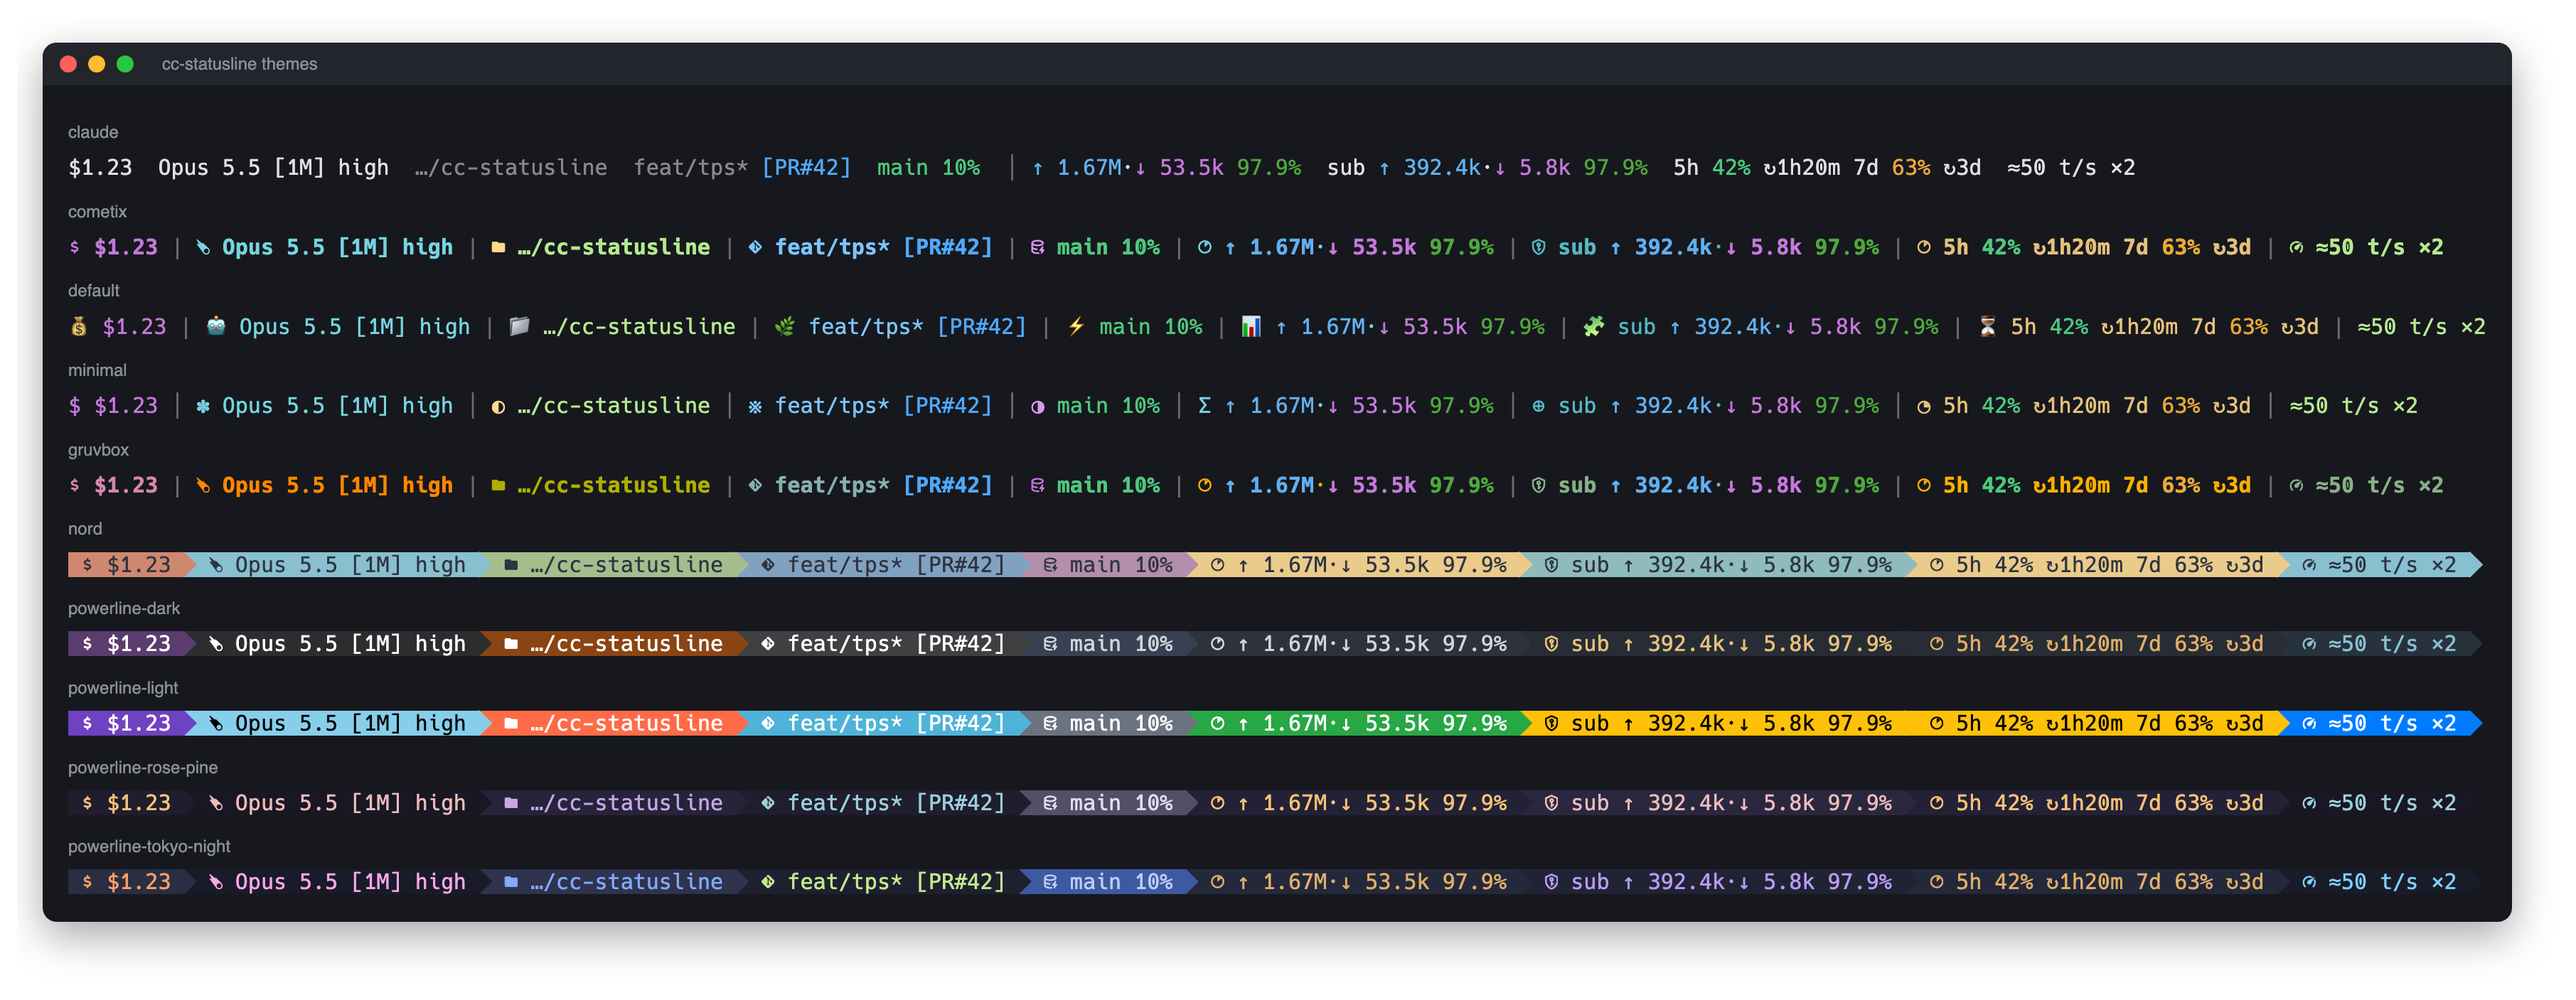
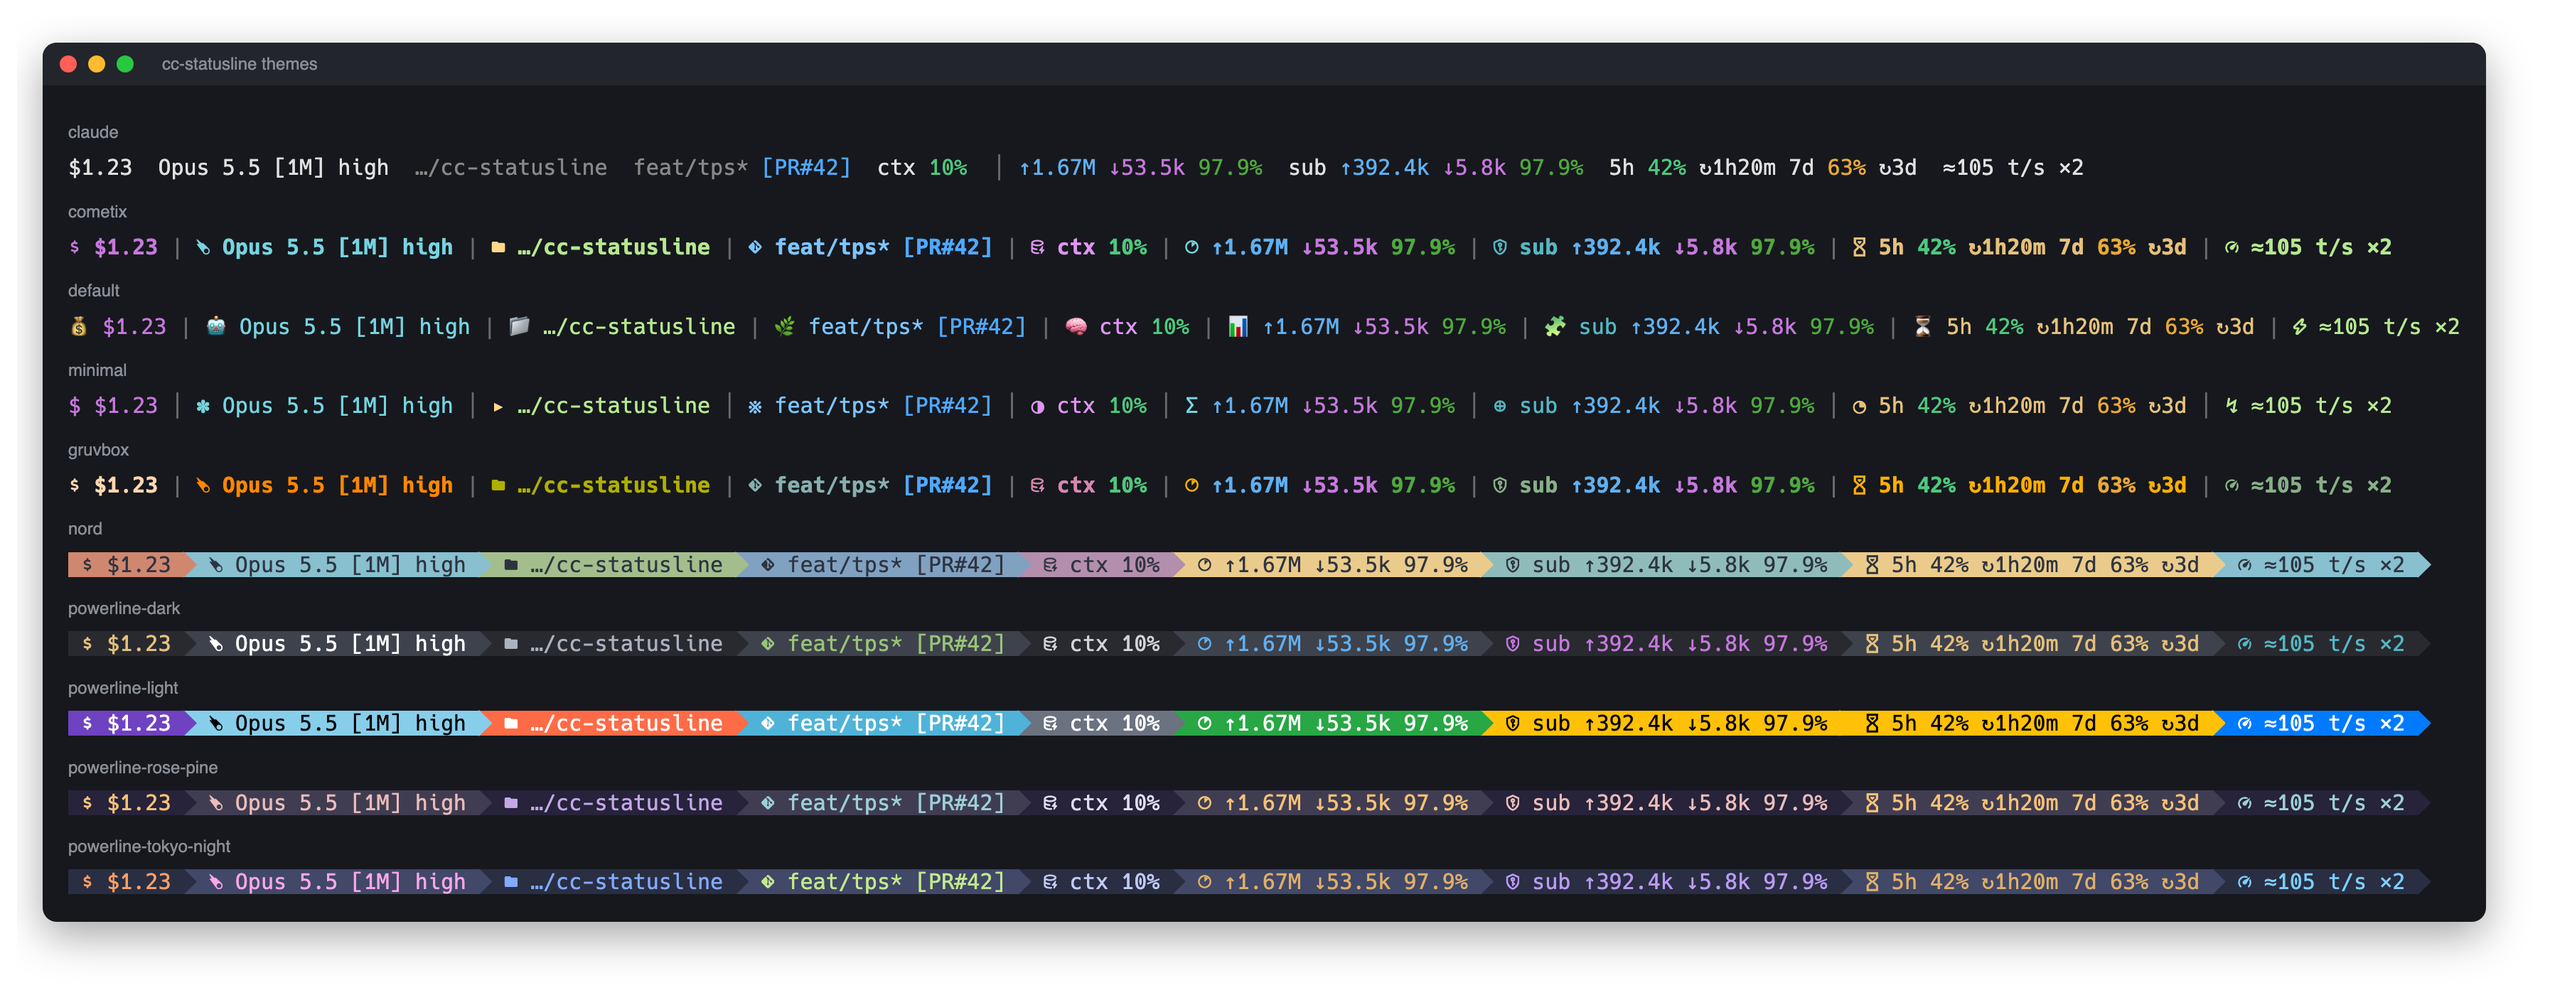
feat: plain ctx label with optional meter and clearer theme palettes
- context reads 'ctx 62% · 620k/1M' (no 'main', which read as a branch)
  and gains a bar option shared with quota's meter
- distinct quota and TPS icons; minimal directory no longer a circle
- gruvbox context stays in the 256 palette
- dark powerline themes alternate two background shades so arrows show
- tighter compact usage triple; regenerate README screenshots

diff --git a/src/themes.rs b/src/themes.rs
@@ -32,10 +32,10 @@ fn icons(id: SegmentId, minimal: bool) -> (&'static str, &'static str) {
         (OutputStyle, false) => ("✎", "\u{f040}"),
         (OutputStyle, true) => ("✎", "\u{f040}"),
         (Directory, false) => ("📁", "\u{f024b}"),
-        (Directory, true) => ("◐", "\u{f024b}"),
+        (Directory, true) => ("▸", "\u{f024b}"),
         (Git, false) => ("🌿", "\u{f02a2}"),
         (Git, true) => ("※", "\u{f02a2}"),
-        (Context, false) => ("⚡", "\u{f49b}"),
+        (Context, false) => ("🧠", "\u{f49b}"),
         (Context, true) => ("◑", "\u{f49b}"),
         (Usage, false) => ("📊", "\u{f0a9e}"),
         (Usage, true) => ("Σ", "\u{f0a9e}"),
@@ -43,12 +43,12 @@ fn icons(id: SegmentId, minimal: bool) -> (&'static str, &'static str) {
         (Subagent, true) => ("⊕", "\u{f0bc5}"),
         (Session, false) => ("⏱", "\u{f19bb}"),
         (Session, true) => ("◷", "\u{f19bb}"),
-        (Quota, false) => ("⏳", "\u{f0a9e}"),
-        (Quota, true) => ("◔", "\u{f0a9e}"),
+        (Quota, false) => ("⏳", "\u{f051f}"),
+        (Quota, true) => ("◔", "\u{f051f}"),
         (Changes, false) => ("±", "\u{f440}"),
         (Changes, true) => ("±", "\u{f440}"),
-        (Tps, false) => ("", "\u{f04c5}"),
-        (Tps, true) => ("", "\u{f04c5}"),
+        (Tps, false) => ("⚡", "\u{f04c5}"),
+        (Tps, true) => ("↯", "\u{f04c5}"),
     }
 }
 
@@ -66,6 +66,7 @@ fn default_options(id: SegmentId) -> BTreeMap<String, toml::Value> {
         }
         SegmentId::Context => {
             put("show_tokens", true.into());
+            put("bar", false.into());
             put("colorful", true.into());
         }
         SegmentId::Usage => {
@@ -200,7 +201,8 @@ fn fg_theme(
 
 type Triple = (u8, u8, u8);
 
-/// powerline preset: one (fg, bg) pair per segment.
+/// powerline preset: one (fg, bg) pair per segment. Backgrounds alternate
+/// between two shades along the default enabled order so each arrow shows.
 fn pl_theme(name: &str, colors: [(Triple, Triple); 13]) -> Config {
     let specs = SegmentId::ALL
         .into_iter()
@@ -322,12 +324,12 @@ pub fn builtin(name: &str) -> Option<Config> {
                 false,
                 [
                     pair(167),
-                    pair(175),
+                    pair(223),
                     pair(208),
                     pair(214),
                     pair(142),
                     pair(109),
-                    (c16(5), c16(5)),
+                    pair(175),
                     pair(214),
                     pair(108),
                     pair(142),
@@ -369,19 +371,19 @@ pub fn builtin(name: &str) -> Option<Config> {
         "powerline-dark" => pl_theme(
             name,
             [
-                ((255, 255, 255), (120, 40, 40)),
-                ((255, 255, 255), (90, 60, 110)),
-                ((255, 255, 255), (45, 45, 45)),
-                ((255, 255, 255), (30, 80, 120)),
-                ((255, 255, 255), (139, 69, 19)),
-                ((255, 255, 255), (64, 64, 64)),
-                ((209, 213, 219), (55, 65, 81)),
-                ((209, 213, 219), (45, 50, 59)),
-                ((229, 192, 123), (40, 44, 52)),
-                ((163, 190, 140), (45, 50, 59)),
-                ((224, 175, 104), (40, 44, 52)),
-                ((136, 192, 208), (40, 50, 60)),
-                ((136, 192, 208), (40, 50, 60)),
+                ((255, 255, 255), (150, 50, 60)),
+                ((229, 192, 123), (40, 42, 48)),
+                ((255, 255, 255), (62, 66, 76)),
+                ((198, 160, 246), (40, 42, 48)),
+                ((171, 178, 191), (40, 42, 48)),
+                ((152, 195, 121), (62, 66, 76)),
+                ((209, 213, 219), (40, 42, 48)),
+                ((97, 175, 239), (62, 66, 76)),
+                ((198, 120, 221), (40, 42, 48)),
+                ((171, 178, 191), (62, 66, 76)),
+                ((229, 192, 123), (62, 66, 76)),
+                ((152, 195, 121), (40, 42, 48)),
+                ((86, 182, 194), (40, 42, 48)),
             ],
         ),
         "powerline-light" => pl_theme(
@@ -405,37 +407,37 @@ pub fn builtin(name: &str) -> Option<Config> {
         "powerline-rose-pine" => pl_theme(
             name,
             [
-                ((235, 111, 146), (35, 33, 54)),
-                ((246, 193, 119), (31, 29, 46)),
-                ((235, 188, 186), (25, 23, 36)),
-                ((49, 116, 143), (38, 35, 58)),
+                ((235, 111, 146), (64, 61, 82)),
+                ((246, 193, 119), (38, 35, 58)),
+                ((235, 188, 186), (64, 61, 82)),
+                ((156, 207, 216), (38, 35, 58)),
                 ((196, 167, 231), (38, 35, 58)),
-                ((156, 207, 216), (31, 29, 46)),
-                ((224, 222, 244), (82, 79, 103)),
-                ((246, 193, 119), (35, 33, 54)),
-                ((235, 188, 186), (42, 39, 63)),
-                ((156, 207, 216), (42, 39, 63)),
-                ((246, 193, 119), (35, 33, 54)),
-                ((156, 207, 216), (25, 23, 36)),
-                ((156, 207, 216), (25, 23, 36)),
+                ((156, 207, 216), (64, 61, 82)),
+                ((224, 222, 244), (38, 35, 58)),
+                ((246, 193, 119), (64, 61, 82)),
+                ((235, 188, 186), (38, 35, 58)),
+                ((156, 207, 216), (64, 61, 82)),
+                ((246, 193, 119), (64, 61, 82)),
+                ((156, 207, 216), (38, 35, 58)),
+                ((156, 207, 216), (38, 35, 58)),
             ],
         ),
         "powerline-tokyo-night" => pl_theme(
             name,
             [
-                ((247, 118, 142), (36, 40, 59)),
+                ((247, 118, 142), (65, 72, 104)),
                 ((255, 158, 100), (41, 46, 66)),
-                ((252, 167, 234), (25, 27, 41)),
-                ((125, 207, 255), (32, 35, 52)),
-                ((130, 170, 255), (47, 51, 77)),
-                ((195, 232, 141), (30, 32, 48)),
-                ((192, 202, 245), (61, 89, 161)),
-                ((224, 175, 104), (36, 40, 59)),
-                ((187, 154, 247), (32, 35, 52)),
-                ((158, 206, 106), (41, 46, 66)),
-                ((224, 175, 104), (36, 40, 59)),
-                ((125, 207, 255), (25, 27, 41)),
-                ((125, 207, 255), (25, 27, 41)),
+                ((252, 167, 234), (65, 72, 104)),
+                ((125, 207, 255), (41, 46, 66)),
+                ((130, 170, 255), (41, 46, 66)),
+                ((195, 232, 141), (65, 72, 104)),
+                ((192, 202, 245), (41, 46, 66)),
+                ((224, 175, 104), (65, 72, 104)),
+                ((187, 154, 247), (41, 46, 66)),
+                ((158, 206, 106), (65, 72, 104)),
+                ((224, 175, 104), (65, 72, 104)),
+                ((125, 207, 255), (41, 46, 66)),
+                ((125, 207, 255), (41, 46, 66)),
             ],
         ),
         _ => return None,

diff --git a/src/render.rs b/src/render.rs
@@ -98,6 +98,30 @@ pub fn fmt_tokens(n: u64) -> String {
     format!("{:.2}M", n as f64 / 1e6)
 }
 
+/// fmt_tokens without trailing zeros, for round capacities: `620k/1M`.
+fn fmt_tokens_short(n: u64) -> String {
+    let s = fmt_tokens(n);
+    if !s.contains('.') {
+        return s;
+    }
+    let (digits, unit) = s.split_at(s.len() - 1);
+    format!(
+        "{}{unit}",
+        digits.trim_end_matches('0').trim_end_matches('.')
+    )
+}
+
+/// An 8-cell share bar with a trailing space.
+fn meter(ratio: f64, color: Option<AnsiColor>) -> Span {
+    let filled = (ratio.clamp(0.0, 1.0) * 8.0).round() as usize;
+    Span {
+        text: format!("{}{} ", "█".repeat(filled), "░".repeat(8 - filled)),
+        color,
+        bold: false,
+        dim: false,
+    }
+}
+
 /// Modern providers sit at 95%+ almost always, so up there one decimal is
 /// kept; only a true 100% stays an integer.
 fn fmt_rate(r: f64) -> String {
@@ -320,22 +344,28 @@ fn segment(ctx: &Ctx, seg: &SegmentConfig, compact: bool) -> Option<Vec<Span>> {
             } else {
                 "success"
             };
-            let label = if zh { "主上下文 " } else { "main ctx " };
-            let text = if compact || !seg.opt_bool("show_tokens", true) {
-                format!("{}{pct}%", if zh { "主 " } else { "main " })
-            } else {
-                format!(
-                    "{label}{pct}% ({}/{})",
-                    fmt_tokens(p.context_tokens),
-                    fmt_tokens(p.max_context_tokens)
-                )
-            };
-            Some(vec![Span {
-                text,
-                color: seg.opt_bool("colorful", true).then(|| token(tok)),
+            let color = seg.opt_bool("colorful", true).then(|| token(tok));
+            let mut spans = vec![plain(if zh { "上下文 " } else { "ctx " })];
+            if seg.opt_bool("bar", false) && !compact {
+                spans.push(meter(ratio, color.clone()));
+            }
+            spans.push(Span {
+                text: format!("{pct}%"),
+                color,
                 bold: false,
                 dim: false,
-            }])
+            });
+            if !compact && seg.opt_bool("show_tokens", true) {
+                spans.push(colored(
+                    format!(
+                        " · {}/{}",
+                        fmt_tokens_short(p.context_tokens),
+                        fmt_tokens_short(p.max_context_tokens)
+                    ),
+                    token("text_muted"),
+                ));
+            }
+            Some(spans)
         }
         SegmentId::Usage => {
             let st = ctx.stats.as_ref()?;
@@ -419,14 +449,22 @@ fn usage_triple(ctx: &Ctx, seg: &SegmentConfig, u: &Usage, compact: bool) -> Vec
     let pick = |c: AnsiColor| colorful.then_some(c);
     let mut spans = vec![
         Span {
-            text: format!("↑ {}", fmt_tokens(u.input())),
+            text: format!(
+                "↑{}{}",
+                if compact { "" } else { " " },
+                fmt_tokens(u.input())
+            ),
             color: pick(AnsiColor::Color16 { c16: 4 }),
             bold: false,
             dim: false,
         },
-        plain(if compact { "·" } else { " · " }),
+        plain(if compact { " " } else { " · " }),
         Span {
-            text: format!("↓ {}", fmt_tokens(u.output)),
+            text: format!(
+                "↓{}{}",
+                if compact { "" } else { " " },
+                fmt_tokens(u.output)
+            ),
             color: pick(AnsiColor::Color16 { c16: 5 }),
             bold: false,
             dim: false,
@@ -490,13 +528,7 @@ fn quota_segment(ctx: &Ctx, seg: &SegmentConfig, compact: bool) -> Option<Vec<Sp
         };
         spans.push(plain(format!("{label} ")));
         if bar {
-            let filled = (ratio.min(1.0) * 8.0).round() as usize;
-            spans.push(Span {
-                text: format!("{}{} ", "█".repeat(filled), "░".repeat(8 - filled)),
-                color: colorful.then(|| token(tok)),
-                bold: false,
-                dim: false,
-            });
+            spans.push(meter(ratio, colorful.then(|| token(tok))));
         }
         spans.push(Span {
             text: format!("{pct}%"),
@@ -918,6 +950,11 @@ mod tests {
         assert_eq!(fmt_tokens(1_234_567), "1.23M");
         assert_eq!(fmt_tokens(999_949), "999.9k");
         assert_eq!(fmt_tokens(999_950), "1.00M");
+        assert_eq!(fmt_tokens_short(1_000_000), "1M");
+        assert_eq!(fmt_tokens_short(620_000), "620k");
+        assert_eq!(fmt_tokens_short(1_500_000), "1.5M");
+        assert_eq!(fmt_tokens_short(12_345), "12.3k");
+        assert_eq!(fmt_tokens_short(999), "999");
         assert_eq!(fmt_duration(3_900), "1h05m");
         assert_eq!(fmt_rate(97.84), "97.8%");
         assert_eq!(fmt_rate(99.99), "99.9%");

diff --git a/tests/session_isolation.rs b/tests/session_isolation.rs
@@ -321,7 +321,7 @@ fn model_summary_is_ranked_and_main_context_is_independent() {
     }
     let p = json!({"session_id":"one","transcript_path":path,"context_window":{"context_window_size":200000,"used_percentage":20,"current_usage":{"input_tokens":40000}}});
     let text = f.text(&[], &p);
-    assert!(text.contains("main ctx 20% (40.0k/200.0k)"), "{text}");
+    assert!(text.contains("ctx 20% · 40k/200k"), "{text}");
     assert!(text.find("Sonnet").unwrap() < text.find("Opus").unwrap());
     assert!(text.contains("+1") && !text.contains("Haiku"), "{text}");
 }
@@ -348,7 +348,7 @@ fn native_fields_render_without_credentials_or_transcript() {
     }));
     for expected in [
         "Opus 5.5 [1M] high",
-        "ctx 13% (125.0k/1.00M)",
+        "ctx 13% · 125k/1M",
         "$1.23",
         "1m",
         "5h 42%",

diff --git a/README.md b/README.md
@@ -109,7 +109,7 @@ With parallel subagents, the footer shows their combined output rate and how man
 | `output_style` | Output style (disabled by default) |
 | `directory` | Working directory |
 | `git` | Branch, diff, conflicts, ahead/behind, open PR (fallback lookup needs `gh`) |
-| `context` | Main conversation context percentage and input tokens / capacity |
+| `context` | Main conversation context percentage and input tokens / capacity (`ctx 62% · 620k/1M`); `bar = true` adds a meter |
 | `usage` | Whole-session input ↑ / output ↓ / cache hit rate, including subagents |
 | `subagent` | Cumulative subagent usage: top two models by input, plus `+N models`; compact lines show the subagent total |
 | `session` | Accumulated session duration (disabled by default) |
@@ -119,7 +119,7 @@ With parallel subagents, the footer shows their combined output rate and how man
 
 When space runs out, segments drop in this order: session → changes → git → directory → subagent → tps → output_style → cost → context → quota → mode.
 
-`main ctx` counts the main conversation's input plus cache reads and writes, excluding output; Claude's native percentage takes precedence. Subagents have independent contexts and are not added to this percentage. Session totals come from the exact supplied transcript and its adjacent subagent logs, deduplicated by message ID. The `sub` segment includes finished tasks and groups them by model, not by agent; compact mode shows the largest model and a count of the rest. Incomplete totals are marked `≈` and dimmed. Missing sessions never inherit another session's statistics. Quota belongs to the account and can persist across sessions.
+`ctx` counts the main conversation's input plus cache reads and writes, excluding output; Claude's native percentage takes precedence. Subagents have independent contexts and are not added to this percentage. Session totals come from the exact supplied transcript and its adjacent subagent logs, deduplicated by message ID. The `sub` segment includes finished tasks and groups them by model, not by agent; compact mode shows the largest model and a count of the rest. Incomplete totals are marked `≈` and dimmed. Missing sessions never inherit another session's statistics. Quota belongs to the account and can persist across sessions.
 
 Preview and the configurator use the last observed payload for the current directory. `preview --session ID` only accepts a matching cached session. Before one is available, preview shows a generic Claude label; the configurator fills missing values with demo data.
 

diff --git a/README.zh.md b/README.zh.md
@@ -109,7 +109,7 @@ cc-statusline 是单个 Rust 二进制。会话变长时，每次刷新仍限制
 | `output_style` | 输出风格（默认关闭） |
 | `directory` | 工作目录 |
 | `git` | 分支、改动统计、冲突、ahead/behind、打开的 PR（回退查询需要 `gh`） |
-| `context` | 主会话上下文占用百分比和输入 token / 容量 |
+| `context` | 主会话上下文占用百分比和输入 token / 容量（`上下文 62% · 620k/1M`）；`bar = true` 显示进度条 |
 | `usage` | 整个会话的输入 ↑ / 输出 ↓ / 缓存命中率，包含子 agent |
 | `subagent` | 子任务累计用量：输入最多的两个模型，其余显示 `+N 个模型`；紧凑模式显示子任务合计 |
 | `session` | 累计会话时长（默认关闭） |
@@ -119,7 +119,7 @@ cc-statusline 是单个 Rust 二进制。会话变长时，每次刷新仍限制
 
 空间不够时按这个顺序去掉：session → changes → git → directory → subagent → tps → output_style → cost → context → quota → mode。
 
-“主上下文”统计主会话的输入、缓存读取和写入，不含输出；优先使用 Claude 原生百分比。各子任务拥有独立上下文，不累加到这个百分比。“子任务”段按模型汇总累计用量，包含已完成任务；紧凑模式只显示输入最多的一个模型和其余模型数量。会话累计用量只读取明确传入的 transcript 及其相邻子 agent 日志，按消息 ID 去重；不完整的用量以 `≈` 标记并变暗。缺失会话不会继承其他会话的统计。额度属于账号，可以跨会话保留。
+“上下文”统计主会话的输入、缓存读取和写入，不含输出；优先使用 Claude 原生百分比。各子任务拥有独立上下文，不累加到这个百分比。“子任务”段按模型汇总累计用量，包含已完成任务；紧凑模式只显示输入最多的一个模型和其余模型数量。会话累计用量只读取明确传入的 transcript 及其相邻子 agent 日志，按消息 ID 去重；不完整的用量以 `≈` 标记并变暗。缺失会话不会继承其他会话的统计。额度属于账号，可以跨会话保留。
 
 预览和配置器使用当前目录最近收到的状态栏数据。`preview --session ID` 只接受匹配的缓存会话。还没有数据时，预览显示通用 Claude 标签，配置器会为缺失字段补上演示值。
 
